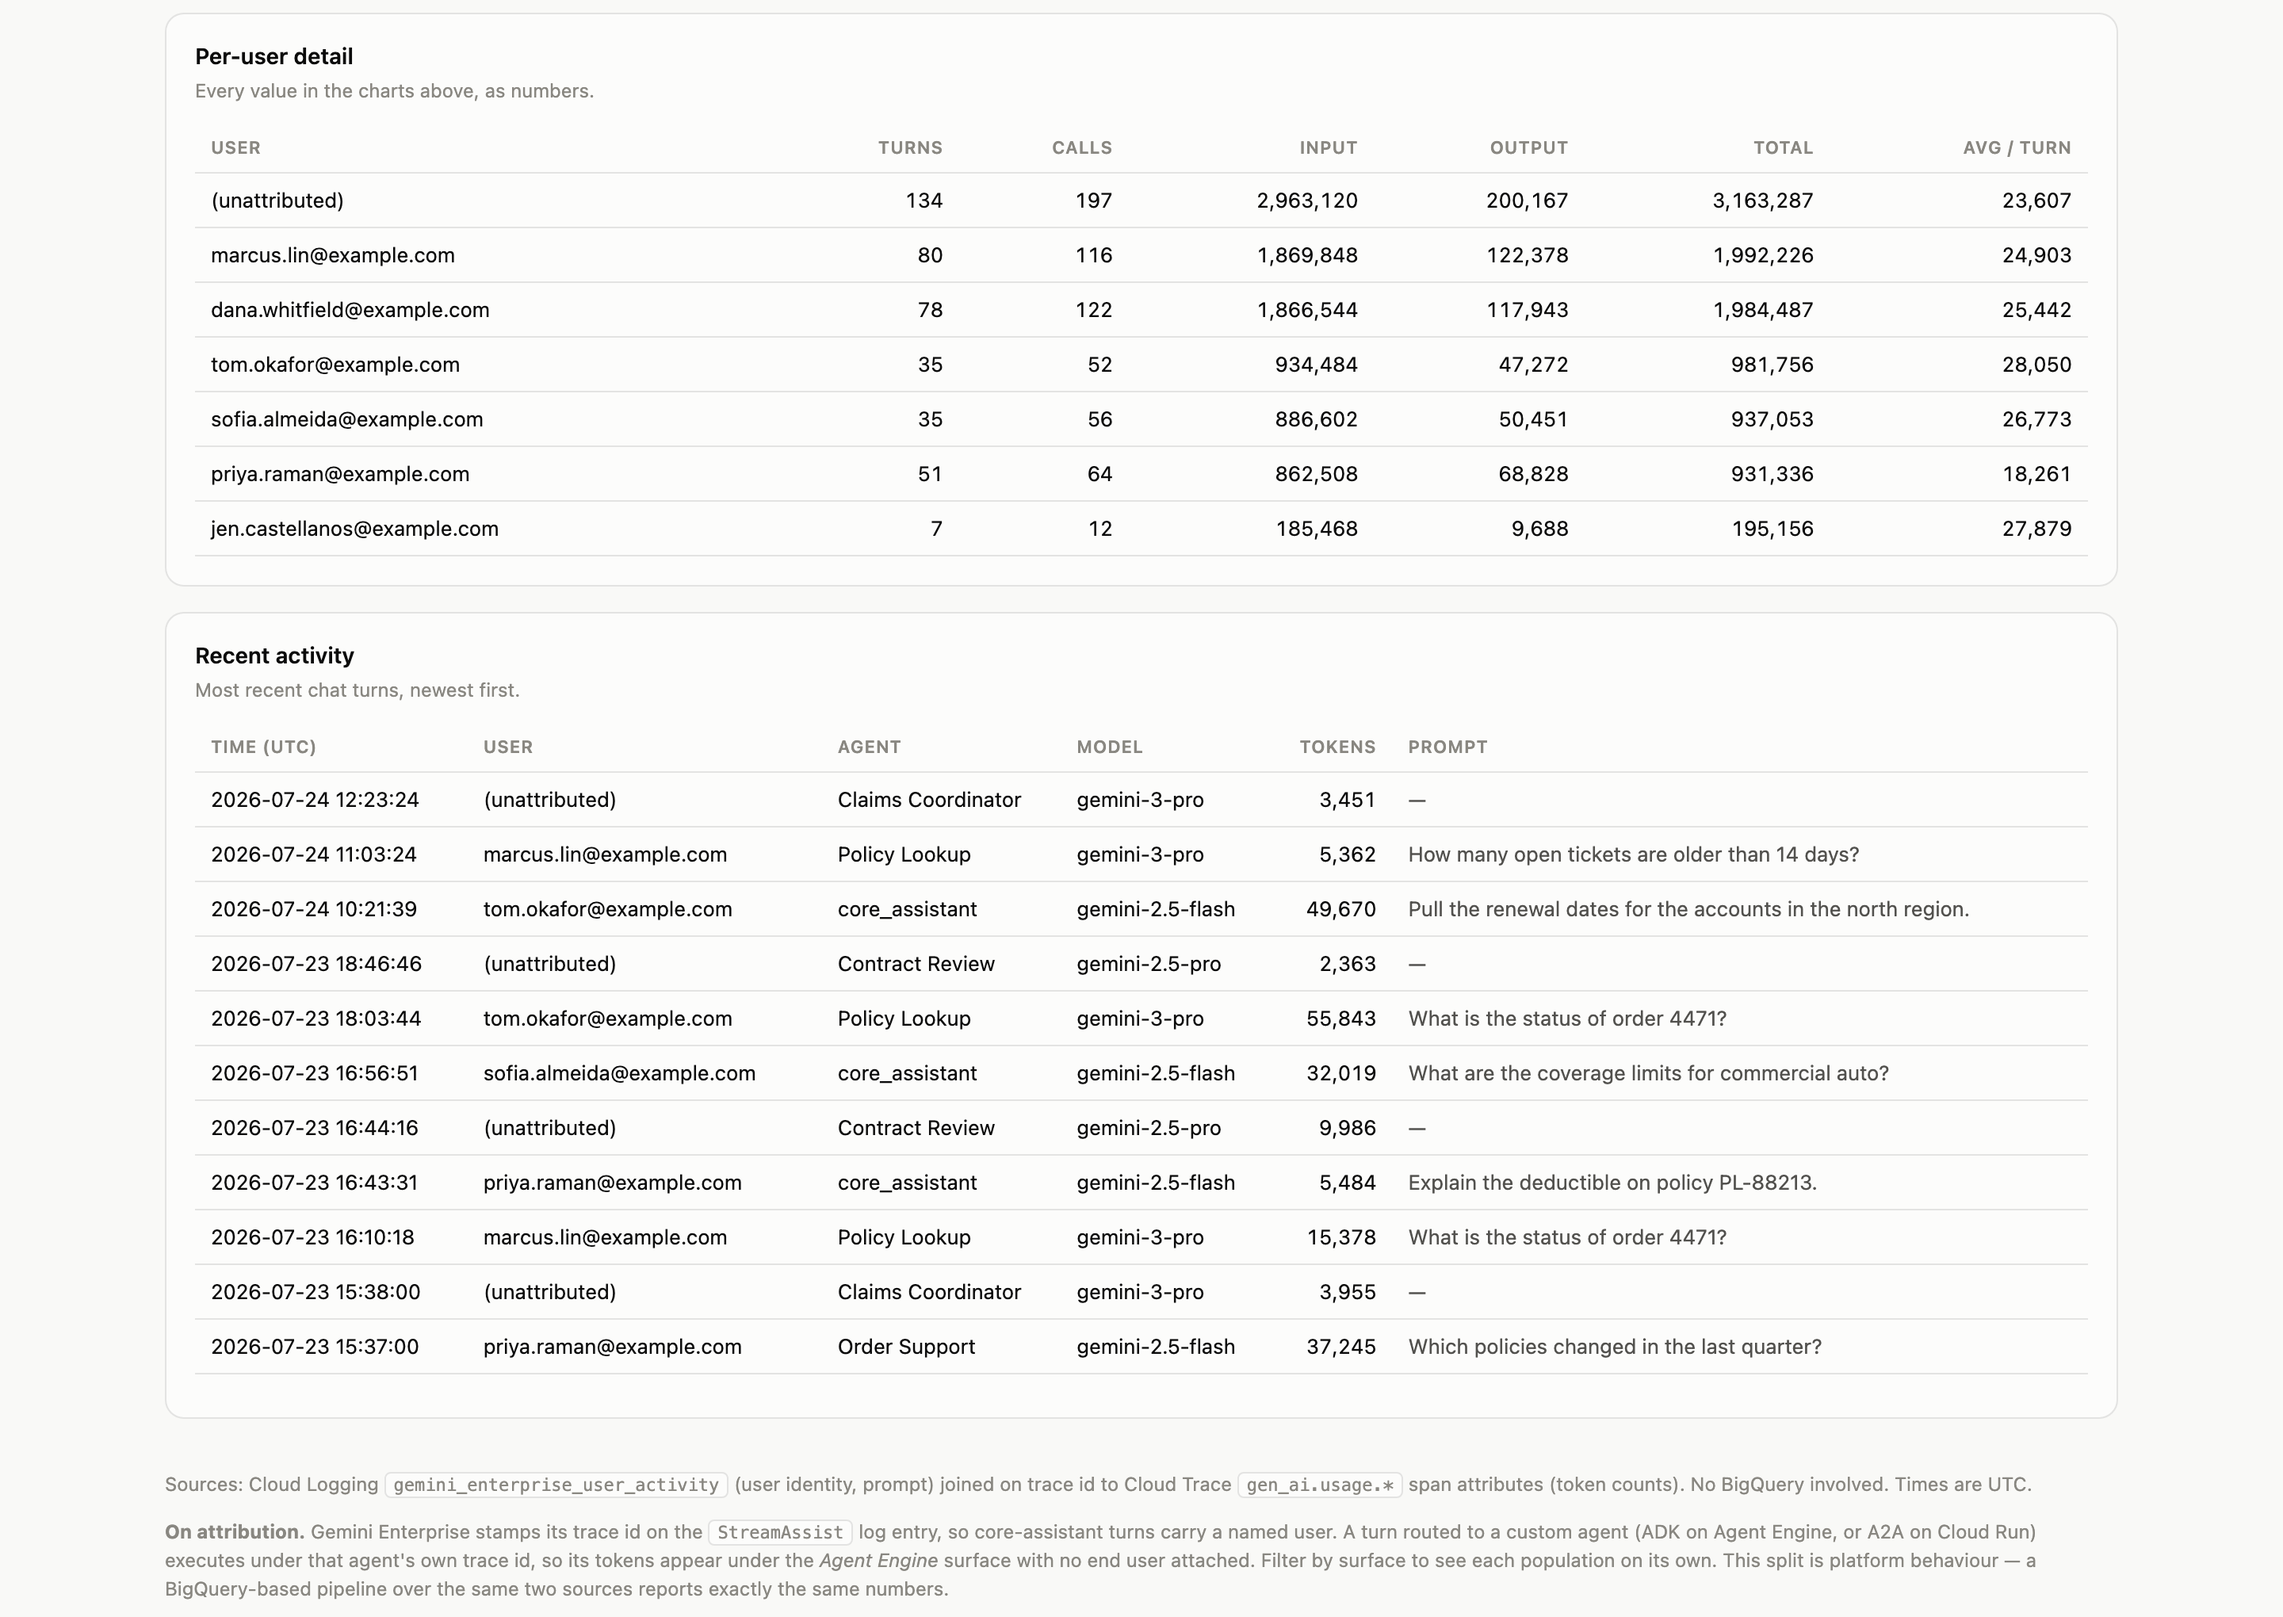
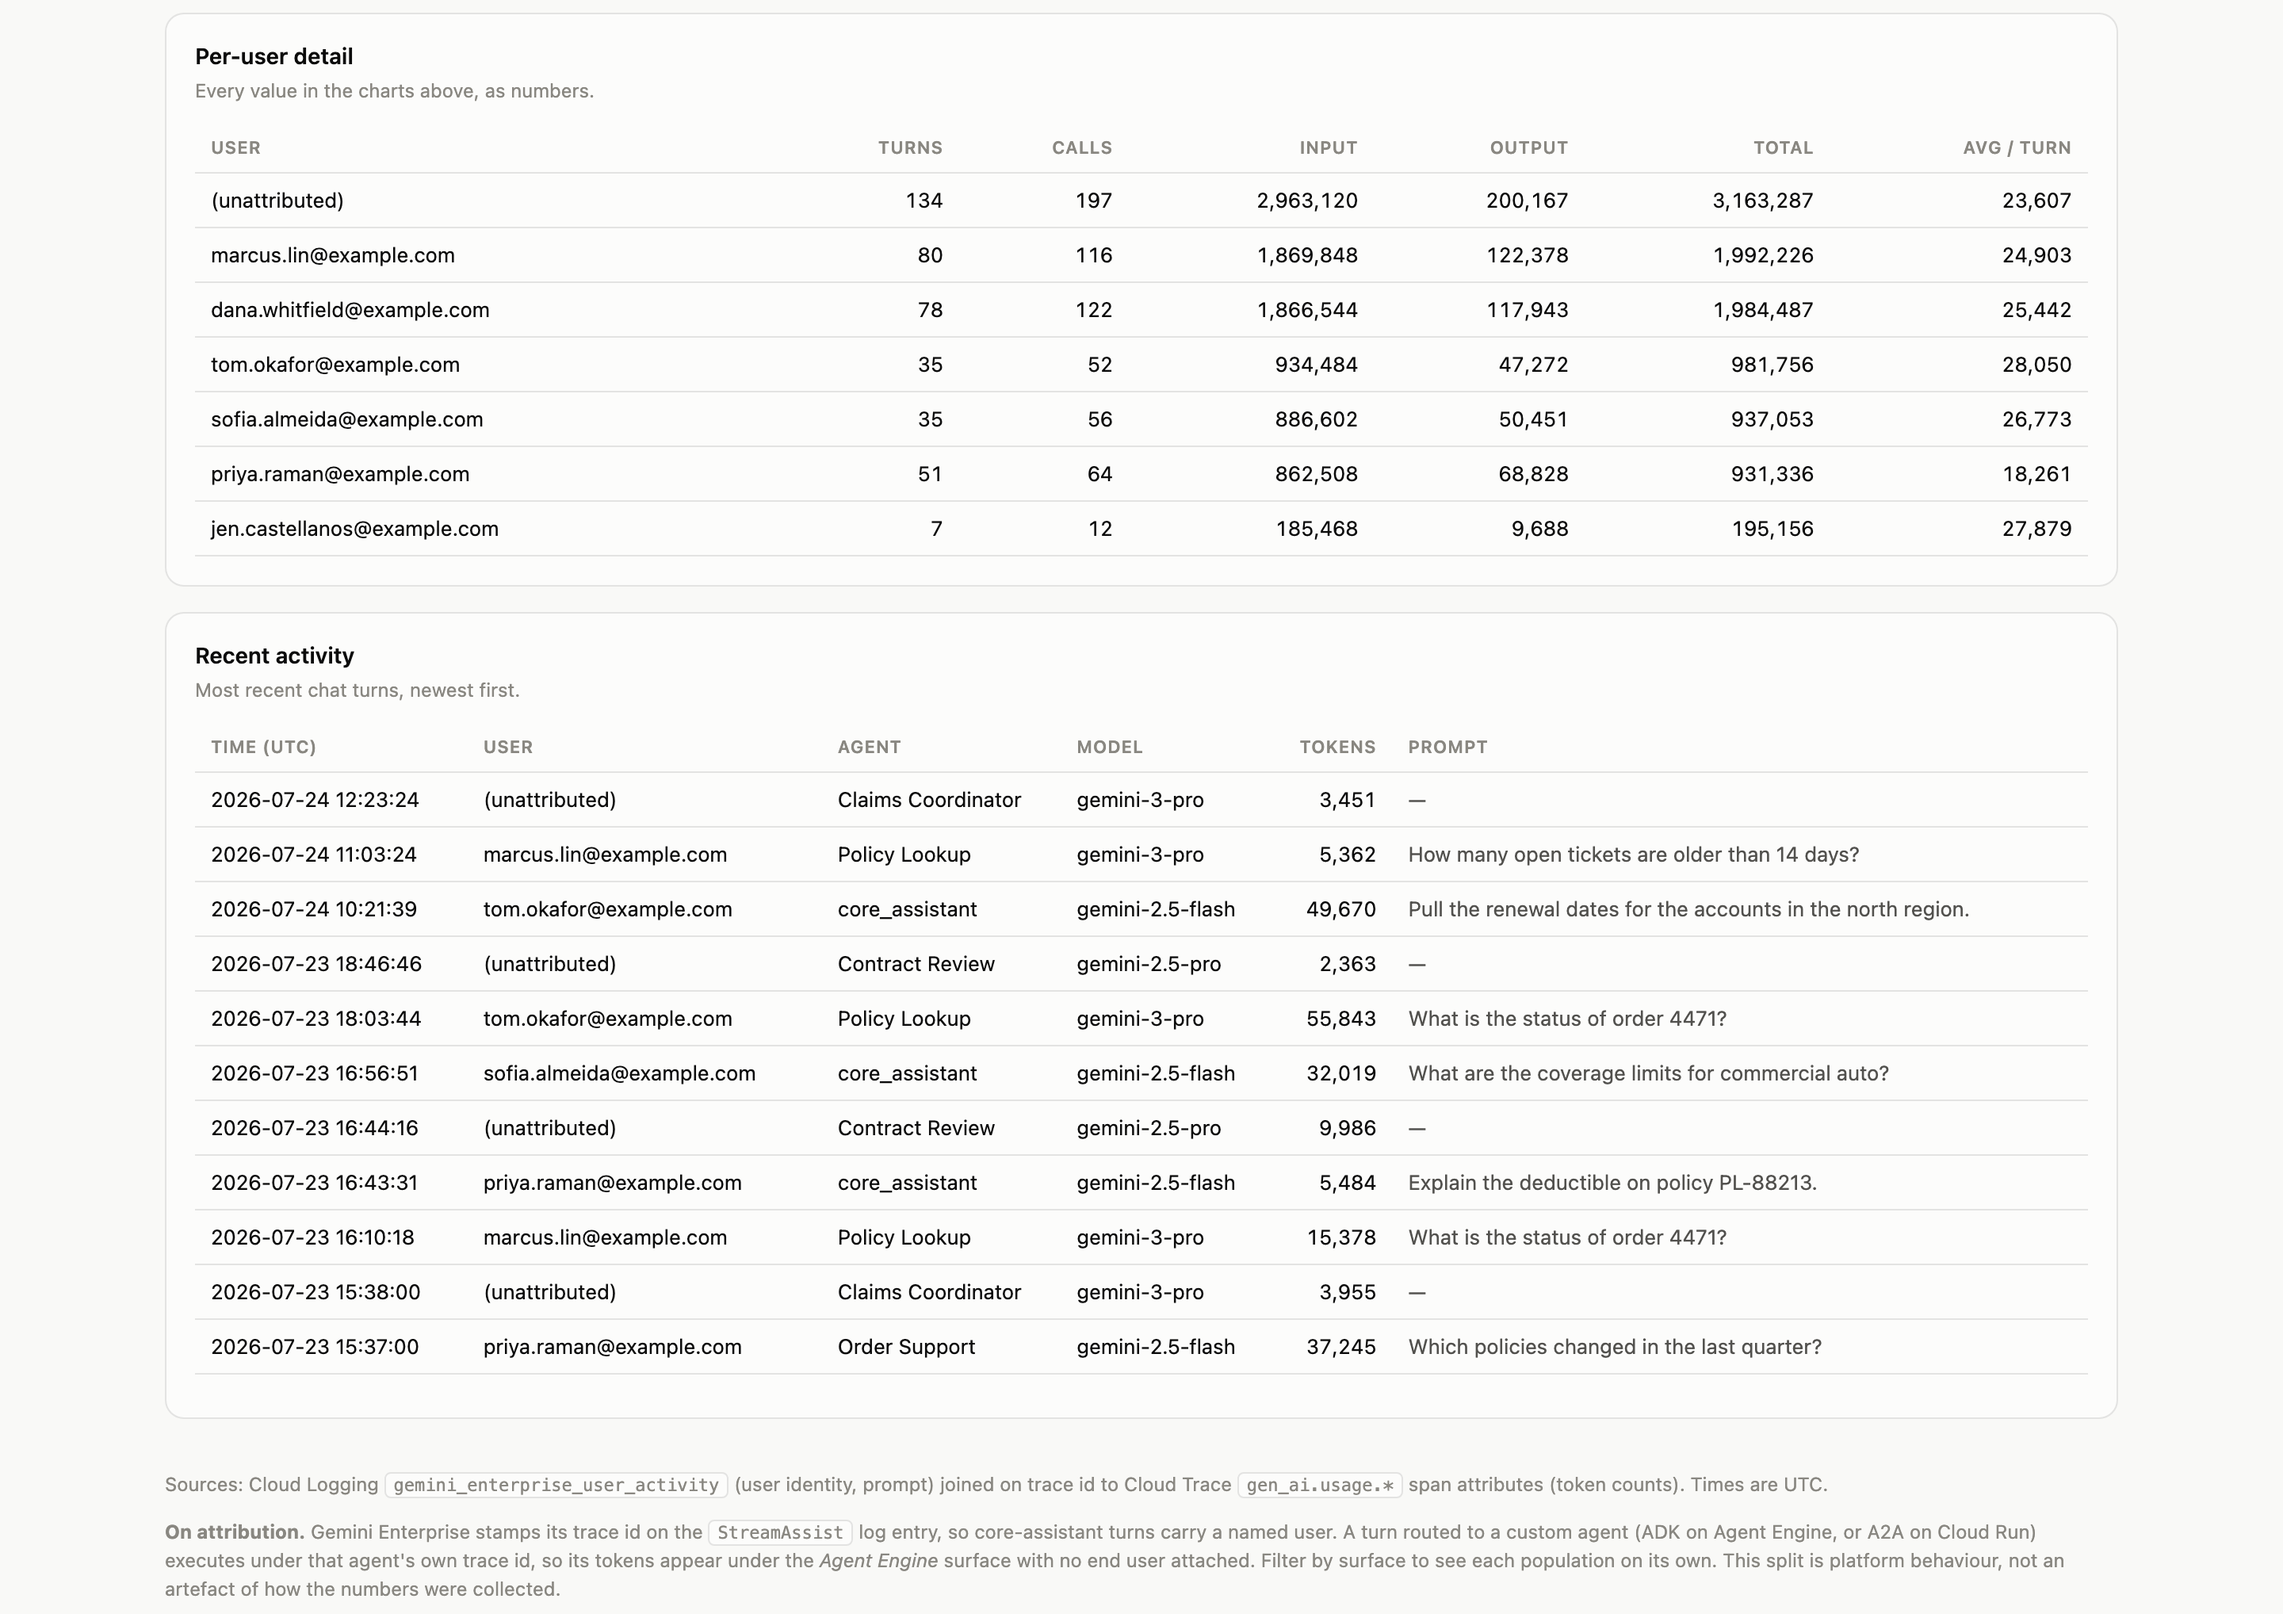
refactor(dashboard): drop the BigQuery framing from the rendered page
The subtitle and footer both advertised what the tool does not use. That
belongs in the README, not on a page someone circulates internally,
where it reads as a claim about their stack rather than about this tool.

Screenshots regenerated.

diff --git a/dashboard.py b/dashboard.py
@@ -272,13 +272,13 @@ _TEMPLATE = r"""<!doctype html>
   <footer class="note">
     <p>Sources: Cloud Logging <code>gemini_enterprise_user_activity</code> (user identity, prompt)
     joined on trace id to Cloud Trace <code>gen_ai.usage.*</code> span attributes (token counts).
-    No BigQuery involved. Times are UTC.</p>
+    Times are UTC.</p>
     <p><strong>On attribution.</strong> Gemini Enterprise stamps its trace id on the
     <code>StreamAssist</code> log entry, so core-assistant turns carry a named user. A turn routed
     to a custom agent (ADK on Agent Engine, or A2A on Cloud Run) executes under that agent's own
     trace id, so its tokens appear under the <em>Agent Engine</em> surface with no end user attached.
-    Filter by surface to see each population on its own. This split is platform behaviour — a
-    BigQuery-based pipeline over the same two sources reports exactly the same numbers.</p>
+    Filter by surface to see each population on its own. This split is platform behaviour, not an
+    artefact of how the numbers were collected.</p>
   </footer>
 </div>
 
@@ -473,7 +473,7 @@ function drawDaily(rows) {
     }
   });
 
-  // Direct-label the final column only — selective, never a number on every mark.
+  // Direct-label the final column only: selective, never a number on every mark.
   const last = data[data.length - 1];
   const lastTotal = last.input + last.output;
   if (lastTotal > 0) {
@@ -853,7 +853,7 @@ def render_dashboard(
     subtitle = (
         f"Project {project} · {len(rows):,} model calls · {turn_count:,} logged turns · {span}"
         f"{' · generated ' + generated_at if generated_at else ''}"
-        " · Cloud Logging + Cloud Trace only, no BigQuery"
+        " · Cloud Logging + Cloud Trace"
     )
 
     meta = {"maxTime": max_time, "minTime": min_time, "project": project}

diff --git a/tests/test_dashboard.py b/tests/test_dashboard.py
@@ -117,7 +117,7 @@ def test_subtitle_reports_the_project_and_volume(conn):
     assert "1 model calls" in html
     assert "1 logged turns" in html
     assert "generated 2026-07-01 12:00 UTC" in html
-    assert "no BigQuery" in html
+    assert "Cloud Logging + Cloud Trace" in html
 
 
 @pytest.mark.parametrize("theme", ["light", "dark"])
